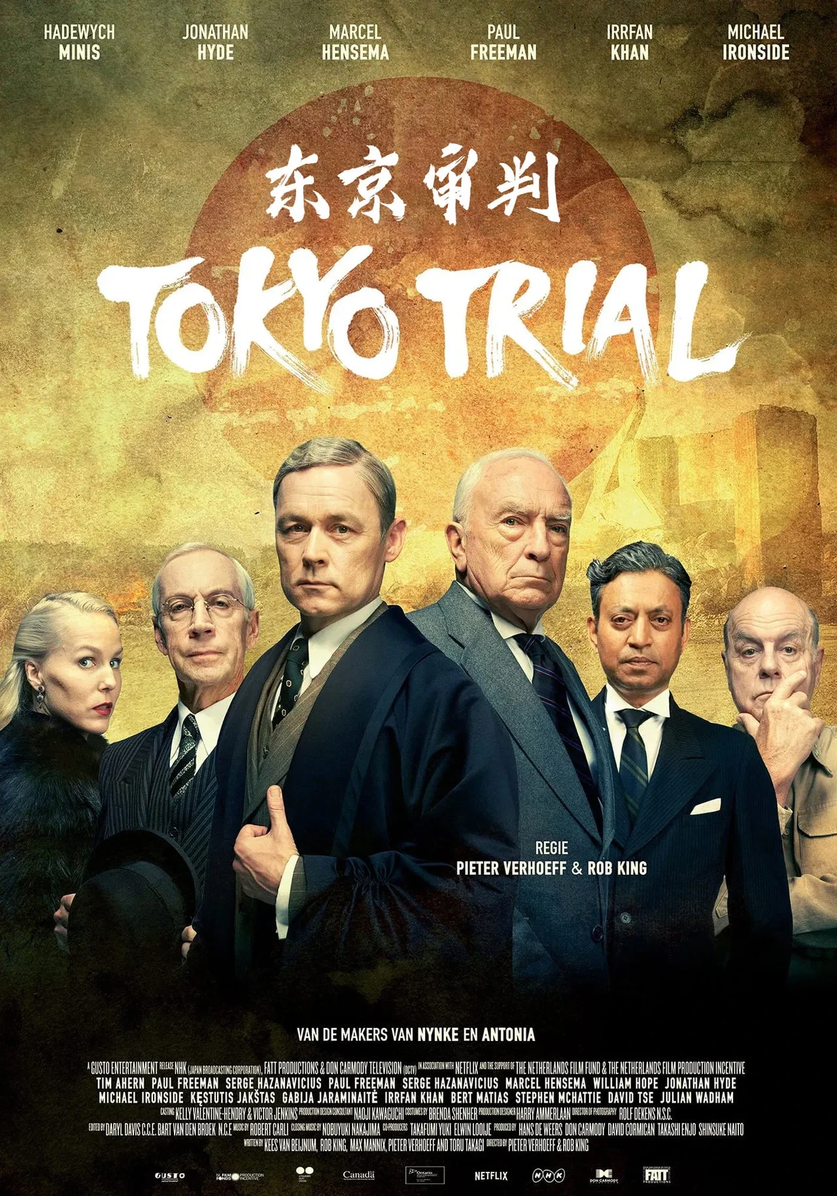
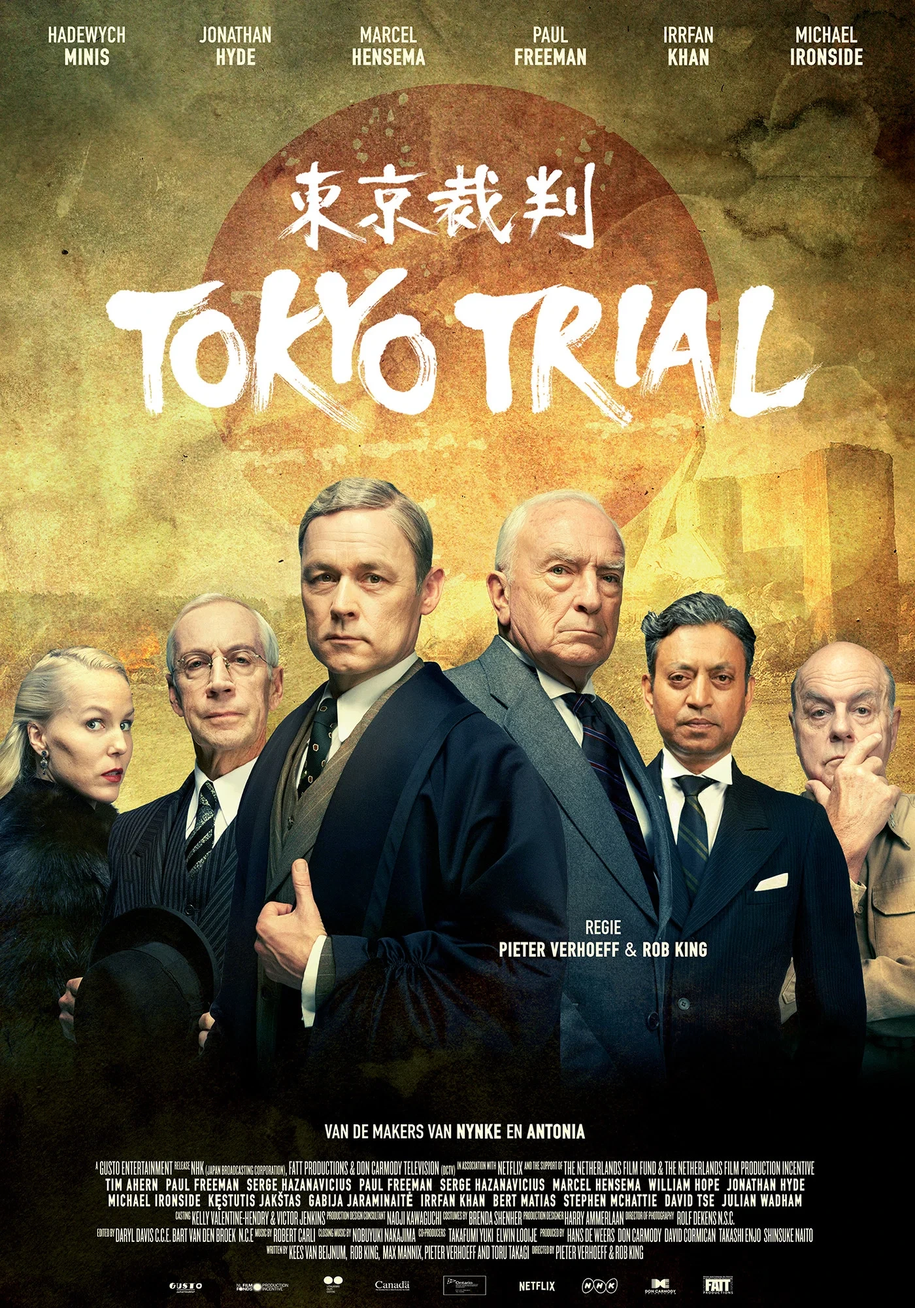
fix(blog): use traditional Chinese poster

diff --git a/content/blog/2026/ichigo-ichie-tokyo-trial.md b/content/blog/2026/ichigo-ichie-tokyo-trial.md
@@ -8,7 +8,7 @@ tags: [影視]
 
 ![影集《東京大審判》（Tokyo Trial）宣傳圖](/blog/img/tokyo-trial.webp)
 
-圖片來源：[The Movie Database：東京大審判](https://www.themoviedb.org/tv/69090-tokyo-trial?language=zh-CN)
+圖片來源：[The Movie Database：東京裁判海報](https://image.tmdb.org/t/p/original/hCxMwXBhwS3a4zQSltP7eZZaqR3.jpg)
 
 因為一期一會的緣分，我看了這部影集《東京大審判》（Tokyo Trial），裡面有許多觀點讓我反覆思考了許久……
 
